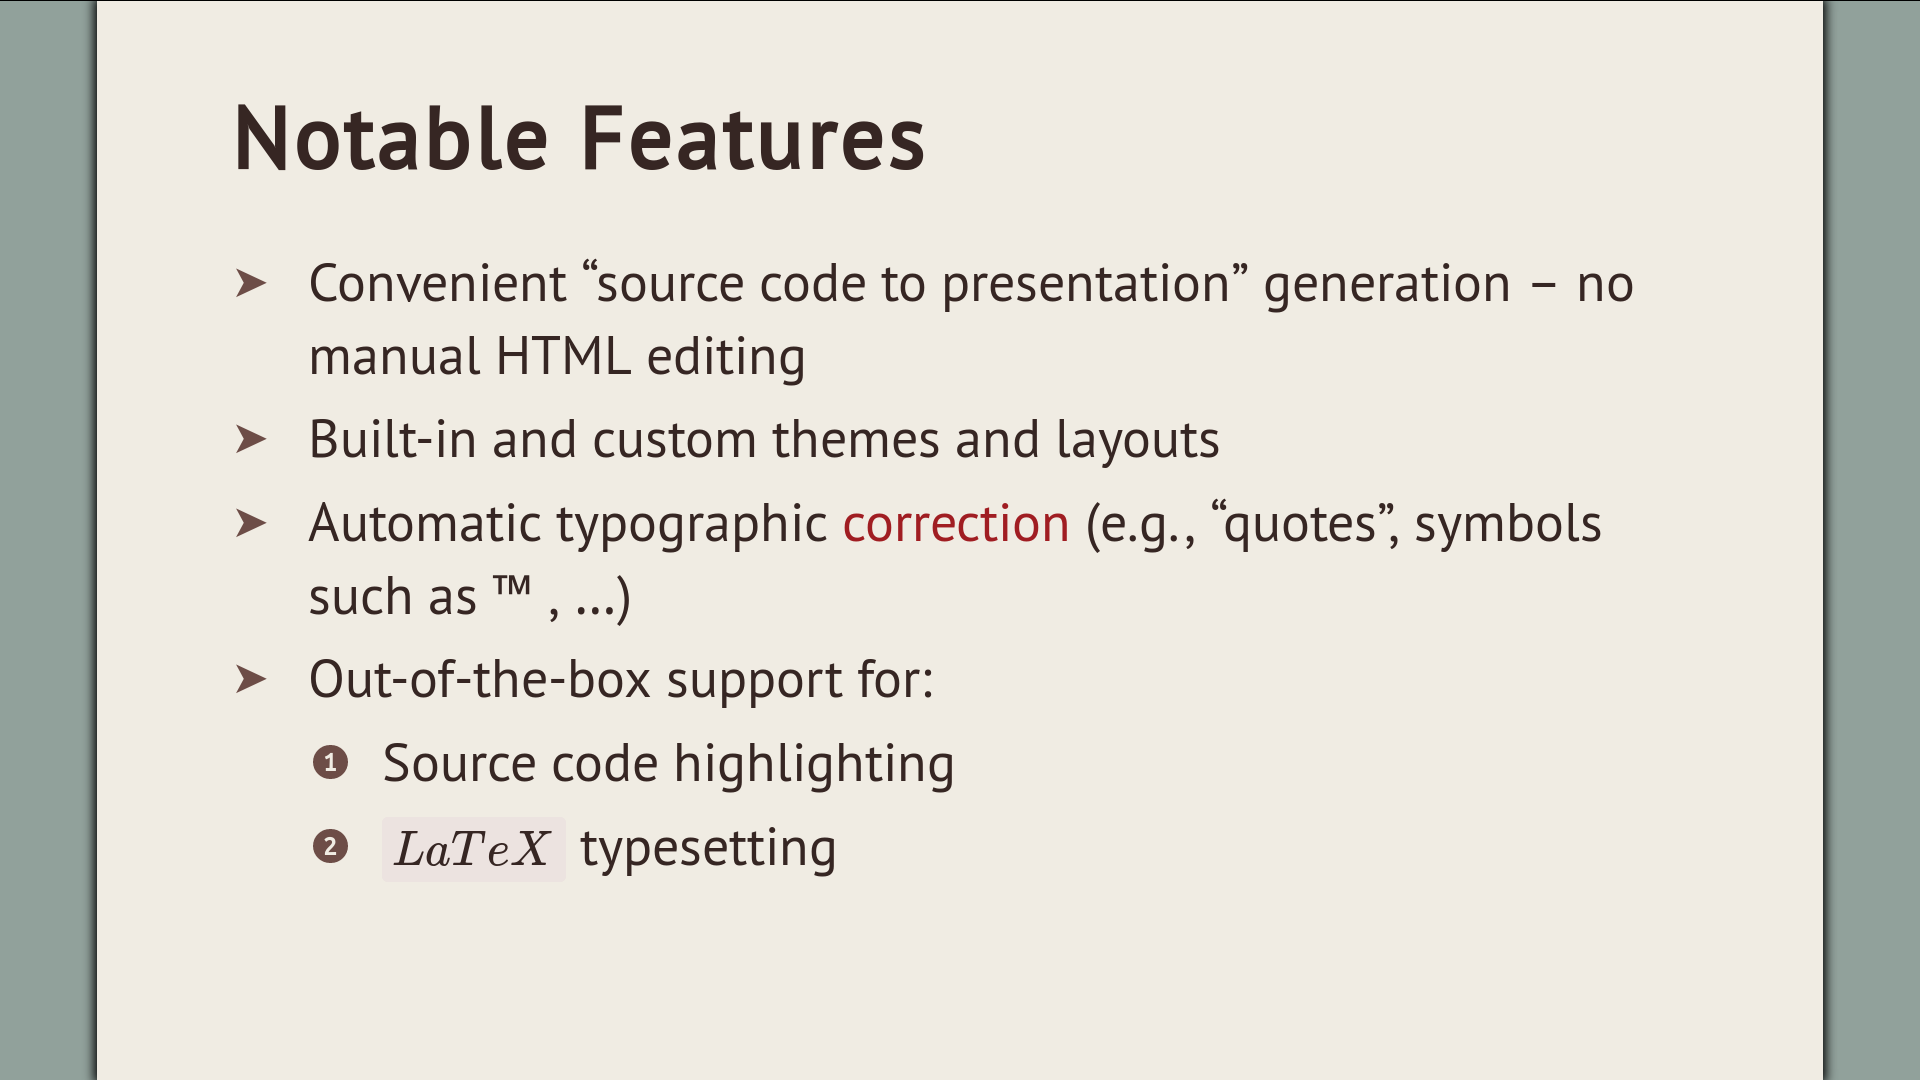
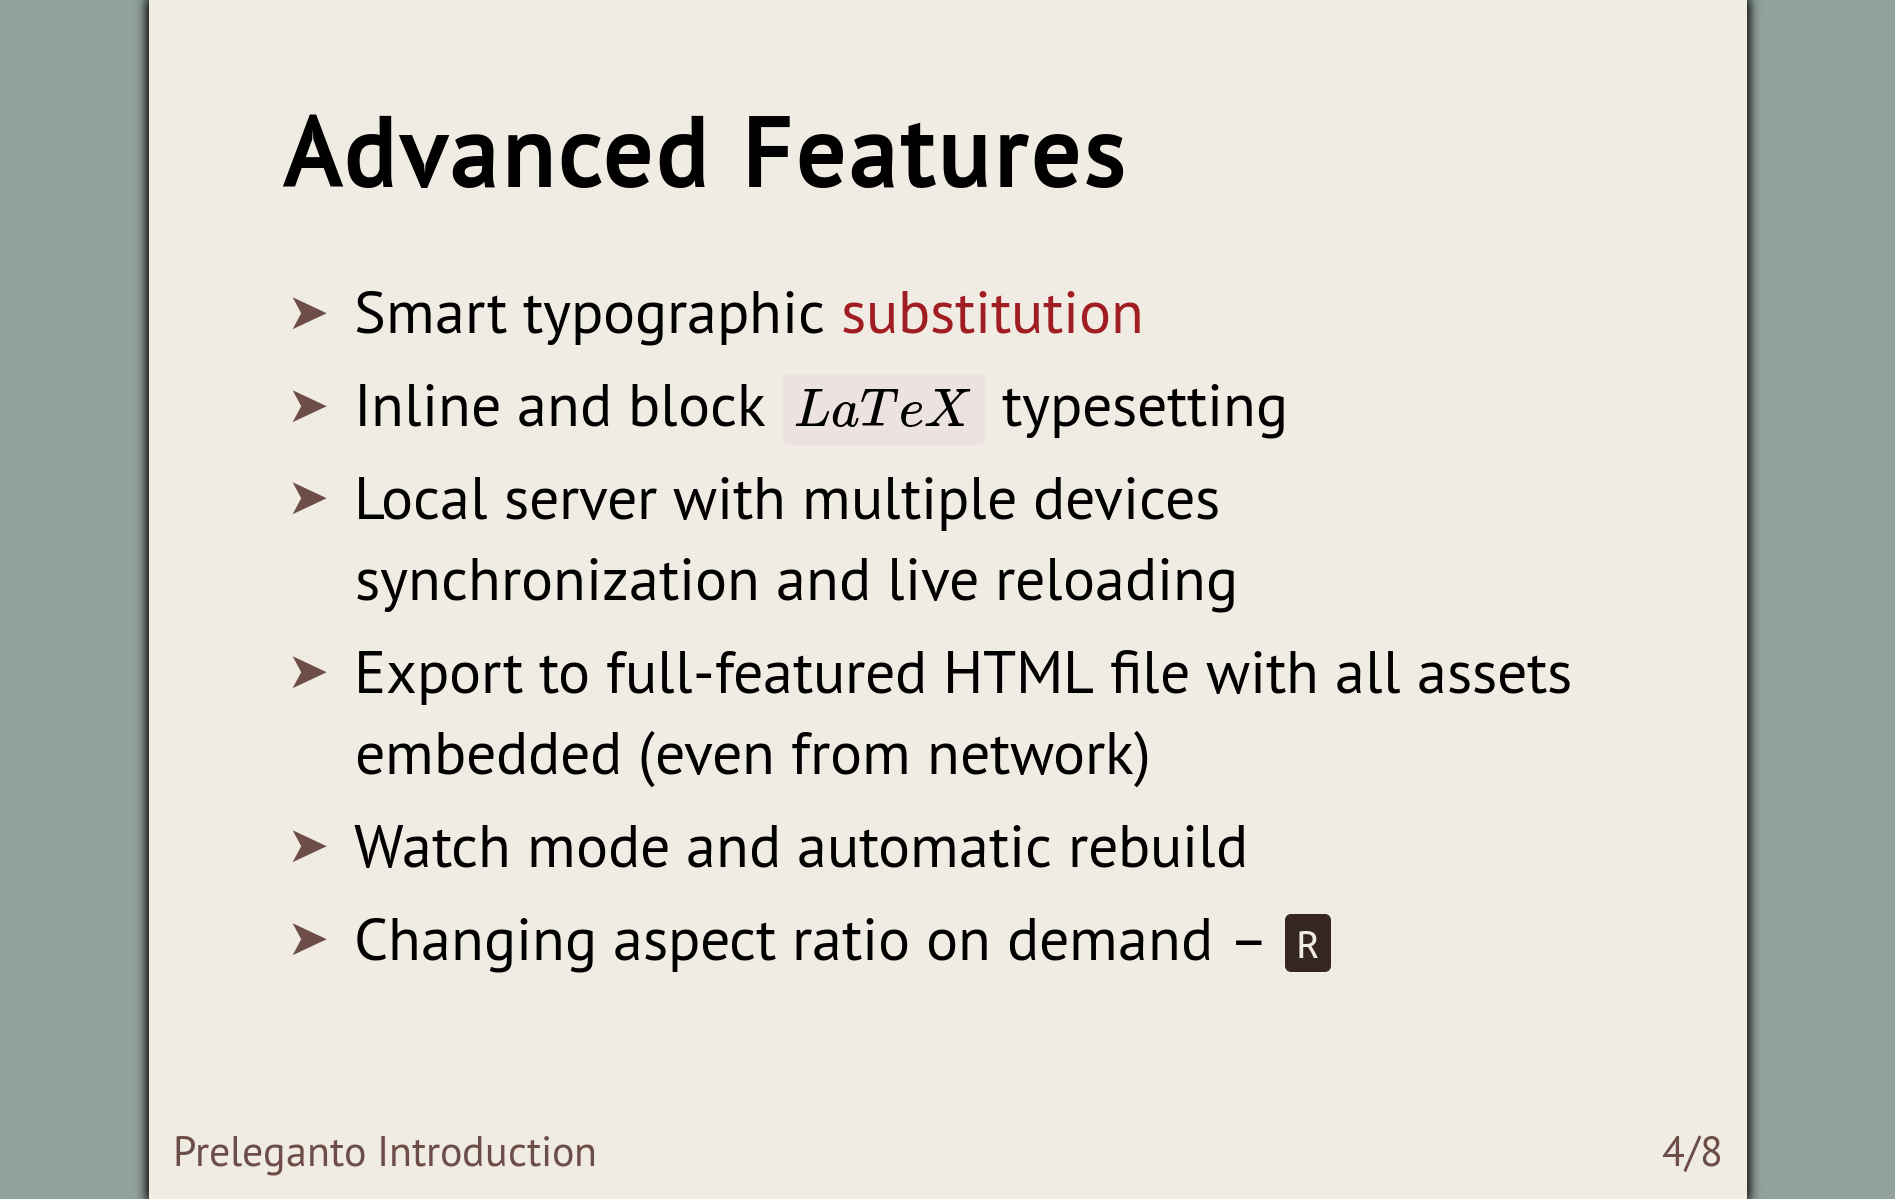
Update README

diff --git a/README.md b/README.md
@@ -1,19 +1,25 @@
 # Preleganto
 
-Preleganto is another in-browser presentation tool which allows you to create
-simple yet elegant slides. Just write content in limited subset of AsciiDoc
-(very similar to Markdown) and use Preleganto convenient command line interface
-to create a beautiful presentation.
+Yet another in-browser presentation tool which transforms source content written
+in [AsciiDoc](http://asciidoctor.org/)-like syntax (kind of similar to Markdown)
+into HTML. It offers convenient command line interface and some advanced
+features.
 
-## Notable Features
+## List of features
 
-* Convenient "source code to presentation" generation - no manual HTML editing
+* Transforming markup to HTML
+* Text formatting, links, images, ...
 * Built-in and custom themes and layouts
-* Automatic typographic [correction](https://github.com/pnevyk/tipograph) (e.g.,
-  "quotes", symbols such as (tm), ...)
-* Out-of-the-box support for:
-    1. Source code highlighting
-    2. LaTeX typesetting
+* Source code [highlighting](https://github.com/PrismJS/prism)
+* Touch devices support
+* Smart typographic [substitution](https://github.com/pnevyk/tipograph)
+* Inline and block LaTeX [typesetting](https://github.com/Khan/KaTeX)
+* Local server with multiple devices synchronization and live reloading
+* Export to full-featured HTML file with all assets embedded (even from network)
+* Watch mode and automatic rebuild
+* Changing aspect ratio on demand
+
+## Screenshot
 
 ![Notable Features](screenshot.png)
 
@@ -23,26 +29,25 @@ to create a beautiful presentation.
 2. Write some markup into a file (see [examples](examples/) for inspiration)
 3. `preleganto build --input examples/preleganto.adoc`
 
-## Note
+## Notes
 
 Preleganto is in early stages of development. Many features are missing, no
 tests are written, a lot of refactoring is needed and documentation is lacking.
-But I hope it will get better over time.
+But I hope it will get better over time. Also the parser is expected to be quite
+buggy.
 
 ### Browser support
 
 I don't aim to support every browser out there. I want to use new features
-present in web development today. Preleganto has to work in my browser and if
-anybody has issues running it in his browser, then he can make a pull request to
-fix it.
+present in web development today. In modern browser Preleganto should work well.
 
 ### AsciiDoc compatibility
 
-Since there is no AsciiDoc parser written in JavaScript and emitting an AST
-available (to my knowledge), I had to write my own. It supports really small
-subset of AsciiDoc syntax and probably doesn't follow AsciiDoc specification in
-all possible edge cases. Surely there are also parsing errors where they
-shouldn't be.
+Since there is no AsciiDoc parser written in JavaScript, which would emit an
+AST, available (to my knowledge), I had to write my own. It supports really
+small subset of AsciiDoc syntax and probably doesn't follow AsciiDoc
+specification in all possible edge cases. Surely there are also parsing errors
+where they shouldn't be.
 
 I hope that it will be replaced eventually by a parser from anyone who will want
 to focus on full AsciiDoc support maintaing compatibility with specification,
@@ -50,224 +55,34 @@ because I am not that person.
 
 ## Documenation
 
-### Syntax
-
-#### Metadata
-
-You can specify some metadata for the presentation and other for individual
-slides. There aren't many of them right now but they will be implemented
-proportionally to the demand.
-
-```
-:title: Presentation title
-:author: Presentation author
-:ratio: 16:10
-:theme: either name of Preleganto theme or the path to your custom one
-:custom-style: path/to/additional/style.css
-:custom-script: path/to/additional/script.js
-
-'''
-
-Slides
-```
-
-#### Slide separators
-
-Preleganto uses AsciiDoc horizontal rule syntax for slide separation, i.e. three
-consecutive apostrophes (`'''`).
-
-```
-Slide A
-
-'''
-
-Slide B
-```
-
-#### Slide notes
-
-All AsciiDoc comments are treated as slide notes (not implemented yet, see
-[#5](https://github.com/pnevyk/preleganto/issues/5)) and are displayed only in
-speaker mode (not implemented yet, see
-[#4](https://github.com/pnevyk/preleganto/issues/4)).
-
-```
-Slide content
-
-// Slide note
-```
-
-#### Headings
-
-Headings are lines which start with a particular number of equality signs.
-
-```
-= Large Heading
-
-== Medium Heading
-
-=== Small Heading
-```
-
-#### Lists
-
-Lists can be either unordered (starting with a particular number of `*`) or
-ordered (starting with a particular number of `.`). If you need nested lists,
-just write two or three consecutive `*`/`.` characters. Lists can be also mixed.
-
-```
-* The first item of an unordered list
-* The second one
-** And the nested one
-
-. The first item of an ordered list
-. The second one
-.. And the nested one
-
-* Unordered list
-.. With ordered sublist
-```
-
-#### Paragraphs
-
-If you want to write sentences without bullets, just write your text and it will
-be interpreted as ordinary paragraph.
-
-```
-An ordinary paragraph.
-```
-
-#### Formatting
-
-You can make **bold**, *italic* and `monospace` text sections with ordinary
-AsciiDoc syntax.
-
-```
-*Bold*, _italic_ and `monospace`. Also with inner-word variants such as
-b**ol**d, i__tali__c and m``onospac``e.
-```
-
-#### Links
-
-You can make links with AsciiDoc macro (Preleganto doesn't support automatic
-link recognition).
-
-```
-link:https://github.com/pnevyk/preleganto[This] is the best presentation
-generator ever.
-```
-
-#### Images
-
-You can include images with AsciiDoc macro. You can specify alternative text
-which will be displayed if the image is not found. And you can specify width
-alone, or width and height of the image in pixels.
-
-```
-image:logo.png[]
-image:logo.png[Logo]
-image:logo.png[Logo, 300]
-image:logo.png[Logo, 300, 200]
-```
-
-#### Source code
-
-Source code is placed into AsciiDoc listing block with `source` identifier. You
-can also specify the language which is then highlighted. For all supported
-languages see [Prism documentation](http://prismjs.com/#languages-list).
-
-```
-[source]
-----
-# Code without syntax highlighting
-----
-
-[source, javascript]
-----
-function greet() {
-    return 'Hello world!';
-}
-----
-```
-
-#### Mathematics
-
-Preleganto supports rendering LaTeX syntax into nicely typeset mathematic
-symbols using [katex](https://github.com/Khan/KaTeX). Both inline and block
-modes are supported.
-
-```
-Inline mathematics: math:{e^{i\pi} + 1 = 0}[].
-
-A block mathematics:
-
-[math]
-----
-e^{i\pi} + 1 = 0
-----
-```
-
-### Command line
-
-#### Build
-
-`preleganto build` builds a source file into HTML output.
-
-* `-i`, `--input` - path to source file
-* `-o`, `--output` - path where output file will be located
-* `-w`, `--watch` - watches source file and rebuilds on change
-
-#### Serve
-
-`preleganto serve` builds a source file, starts local server and serves the
-presentation on that server.
-
-* `-i`, `--input` - path to source file
-* `-p`, `--port` - port on which local server is started
-* `-w`, `--watch` - watches source file and reloads the presentation in browser
-
-#### Export
-
-`preleganto export` builds a source file and embeds all dependencies into the
-output, so it is 100% portable.
-
-* `-i`, `--input` - path to source file
-* `-o`, `--output` - path where output file will be located
-* `-f`, `--format` - output format, only HTML is now supported
+See [docs](docs/readme.md).
 
 ## Contributing
 
 I'd love to see anyone who wants to help, be it a pull request or just a
-comment. The source code is written in ES2015 JavaScript with Flow type
-annotations.
-
-```
-git clone git@github.com:pnevyk/preleganto.git
-cd preleganto
-npm install
-npm run build
-node index.js build --input examples/preleganto.adoc
-```
-
-Development of Preleganto tries to follow rules of [git
-flow](http://nvie.com/posts/a-successful-git-branching-model/) approach (more or
-less). That means that you should
-
-* make a new branch named `feature/<topic>` branched from `develop` for every
-  new feature or enhancement
-* make a new branch named `bugfix/<topic>` branched from `develop` for a
-  non-critical bugfix
-* make a new branch named `hotfix/<topic>` branched from `master` for a
-  critical bugfix
-
-Don't be scared, everyone makes mistakes and I am a really great example. If you
-want to start with something easy, try these
-[issues](https://github.com/pnevyk/preleganto/labels/easy).
+comment. The source code is written in modern JavaScript with Flow type
+annotations. For more information, see [Contributing guide](CONTRIBUTING.md).
 
 ## Roadmap
 
 See [feature
 requests](https://github.com/pnevyk/preleganto/labels/feature-request).
+
+## Alternatives
+
+* [remark](https://github.com/gnab/remark) - I have used this one. It's
+  relatively convenient tool generating nice presentations. I had to figured out how to support LaTeX and the solution wasn't so nice. Also it requires
+  internet connection when you have some external resources (Google fonts, ...).
+* [reveal.js](https://github.com/hakimel/reveal.js/) - I would say famous HTML
+  presentation tool. It allows you to create nested slides (vertical direction)
+  which is impressive. It seems that it supports LaTeX but it's not out of the
+  box and dynamic transformation via MathJax is slow. I personally don't like
+  the design. Probably the same problem with external resources as remark. But
+  it has web [GUI editor](https://slides.com/).
+* [impress.js](https://github.com/impress/impress.js/) - I have no experience
+  with this but I feel it's worth to note it here. This tool is for people who
+  are willing to spend some extra time to create impressive presentations.
+* And [many](https://github.com/astefanutti/decktape) others.
 
 ## License
 
